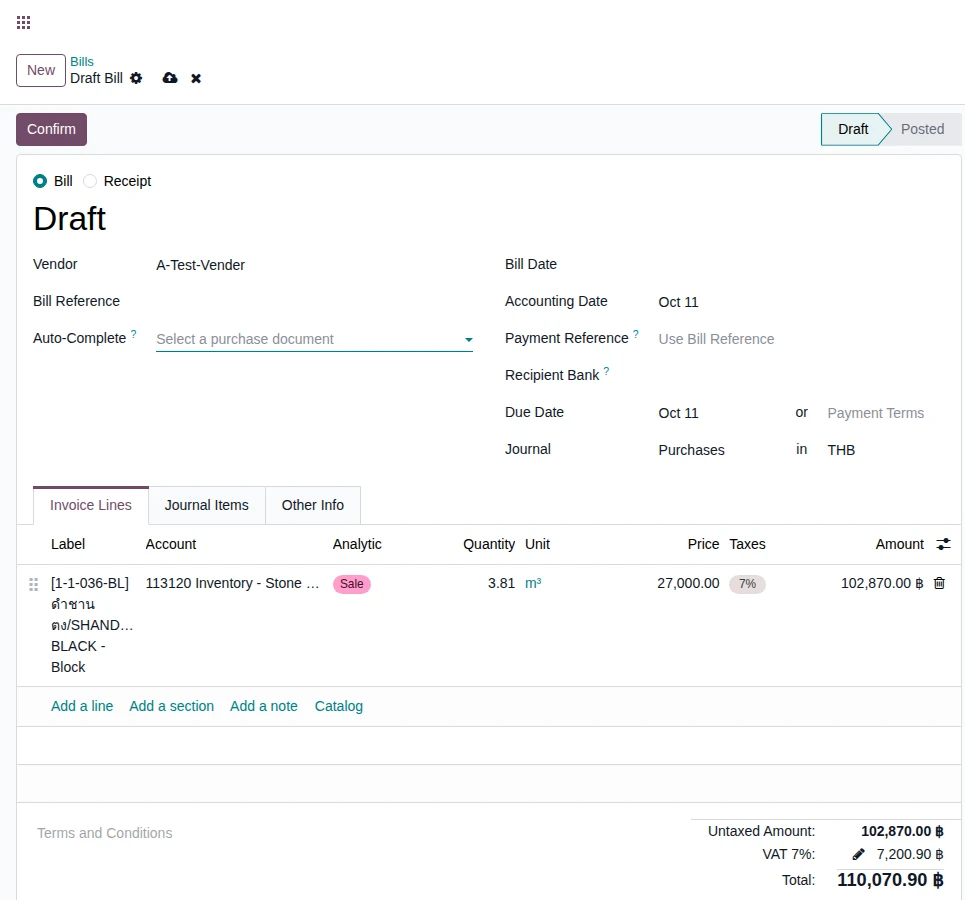
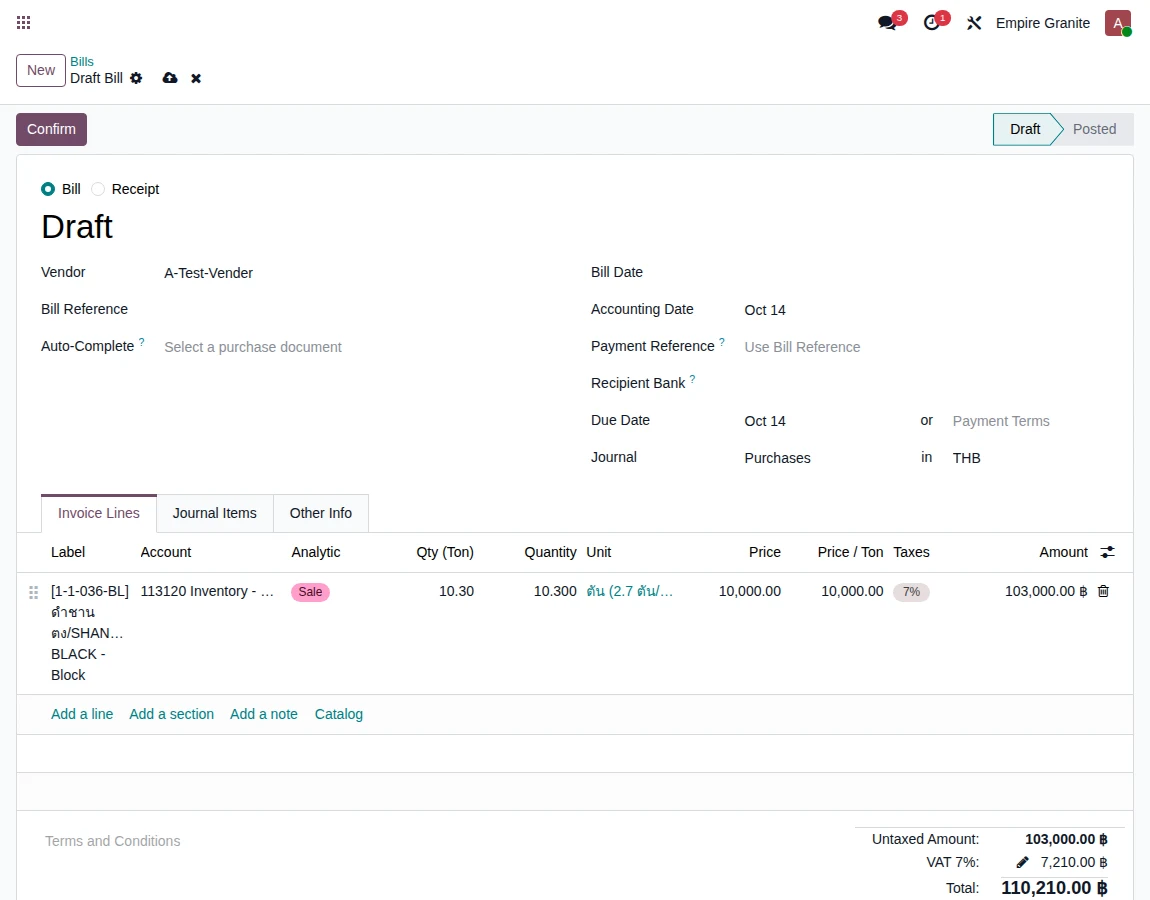
manual 30/31: re-shoot screenshots on eg-tst v109.23 (Block 18, Slab 8), update dataset numbers

diff --git a/manual/31-slab.html b/manual/31-slab.html
@@ -131,12 +131,12 @@ table.cond td.no{background:#fdeeee}
 <h3>4.1 ได้แผ่นจากการตัด Block (Cut Order)</h3>
 <p>ทางที่หนึ่ง: ตัด Block ที่มีอยู่ในคลังให้เป็นแผ่น ไปที่ <strong>Manufacturing → Operations → Manufacturing Orders → New</strong> แล้วเลือก <strong>Stone Block</strong> ที่จะตัด</p>
 <figure class="screenshot"><img src="assets/slab-01-cut-order-block.webp" alt="ใบตัดเลือก Block"/></figure>
-<p>ระบบเติมขนาดแผ่นที่จะตัดให้เอง (กว้าง 3.00 × สูง 1.25 ม. หนา 2 ซม.) และคำนวณจำนวนแผ่นที่คาดว่าจะได้ไว้ที่แท็บ <strong>Slab ที่ตัดได้ (แผน/จริง)</strong> ตัวอย่างนี้ Block 6.00 ลบ.ม. ตัดได้ 80 แผ่นพอดี (แถวละ 1 แผ่น)</p>
+<p>ระบบเติมขนาดแผ่นที่จะตัดให้เอง (กว้าง 3.00 × สูง 1.25 ม. หนา 2 ซม.) และคำนวณจำนวนแผ่นที่คาดว่าจะได้ไว้ที่แท็บ <strong>Slab ที่ตัดได้ (แผน/จริง)</strong> ตัวอย่างนี้ Block 6.00 ลบ.ม. ตัดได้ 80 แผ่นพอดี (แถวละ 1 แผ่น) โดยตั้ง % สูญเสียจากการเลื่อยของ Block เป็น 0 เพื่อให้ตัวเลขกลมเท่ากับชุดตัวอย่างนี้ (ปกติระบบคิดสูญเสีย 15% จำนวนแผ่นจะน้อยลง) ภาพ 3 ภาพแรกของหัวข้อ 4.1 (ก่อนตัดเสร็จ) ถ่ายจาก Block ใหม่ BLK-26-0341 ซึ่งมีขนาดและข้อมูลเหมือน BLK-26-0036 ทุกอย่าง</p>
 <p><strong>ขั้นที่ 1: ย้าย Block ไปสถานีตัด</strong> หลังกด Save แล้วกดปุ่ม <strong>ย้ายไปสถานีตัด</strong></p>
 <figure class="screenshot"><img src="assets/slab-02-move-to-production.webp" alt="ย้าย Block ไปสถานีตัด"/></figure>
 <p>ระบบแจ้งสีเขียวว่า Block ย้ายไป Stone Production แล้ว (ย้ายจาก Stone Available ไปสถานีตัด) แล้วกด Confirm ได้เลย</p>
 <div class="callout callout-note"><div class="callout-head"><span class="callout-tag">หมายเหตุ</span><span class="callout-title">แถบเตือนสีส้ม "ขั้นตอนถัดไป: กดปุ่ม ย้ายไปสถานีตัด" อาจยังค้างอยู่ จนกว่าจะเปิดหน้านี้ใหม่</span></div><div class="callout-body">เป็นแค่ข้อความบนหน้าจอ ไม่กระทบการทำงาน เมื่อพร้อมแล้วระบบจะขึ้นแถบเขียว "พร้อมแล้ว: ตรวจสอบขนาดและจำนวนด้านล่าง แล้วกด Confirm" (ถ้ามีคำเตือนขนาดหรือ variant ขึ้นอยู่ จะไม่แสดงแถบเขียว)</div></div>
-<p><strong>ขั้นที่ 2: เลือกเหตุผลแล้ว Confirm</strong> ใบตัดที่ไม่ผูกกับใบสั่งขาย ต้องเลือกช่อง <strong>เหตุผล (กรณีไม่มี SO)</strong> (ในกลุ่ม "ขั้นตอนที่ 3 — ผูกกับ Sale Order หรือระบุเหตุผล") ก่อนเสมอ ถ้าตัดเข้าสต็อกทั่วไปให้เลือก "อื่นๆ (Other)" แล้ว Save และ Confirm ใบตัดเปลี่ยนเป็น In Progress</p>
+<p><strong>ขั้นที่ 2: เลือกเหตุผลแล้ว Confirm</strong> ใบตัดที่ไม่ผูกกับใบสั่งขาย ต้องเลือกช่อง <strong>เหตุผล (กรณีไม่มี SO)</strong> (ในกลุ่ม "ขั้นตอนที่ 3 — ผูกกับ Sale Order หรือระบุเหตุผล") ก่อนเสมอ ถ้าตัดเข้าสต็อกทั่วไปให้เลือก "อื่นๆ (Other)" แล้ว Save และ Confirm ใบตัดเปลี่ยนเป็น Confirmed</p>
 <figure class="screenshot"><img src="assets/slab-03-confirm-reason.webp" alt="เลือกเหตุผลและ Confirm ใบตัด"/></figure>
 <p><strong>ขั้นที่ 3: ตัดเสร็จ กด ตัดเสร็จ</strong> ถ้าหน้างานตัดได้ขนาดจริงต่างจากแผน ให้แก้คอลัมน์ <strong>จริง L / จริง H / จริง ความหนา</strong> ที่แท็บ Slab ที่ตัดได้ (แผน/จริง) ก่อนกดปุ่ม</p>
 <figure class="screenshot"><img src="assets/slab-04-complete-cut.webp" alt="ใบตัดที่ Done แล้ว ได้ 80 แผ่น"/></figure>
@@ -193,7 +193,7 @@ table.cond td.no{background:#fdeeee}
 <p>ได้บรรทัดสินค้า "Slab (Polished, 2 cm)" ราคา 4,500 บาท/ตร.ม. ตอนนี้ยอดยังเป็นราคาตามขนาดมาตรฐาน (3.00 × 1.60 = 4.80 ตร.ม. → 21,600 บาท) ยอดจริงจะคำนวณใหม่เมื่อเลือกแผ่นในขั้นถัดไป</p>
 <p><strong>เลือกแผ่นที่จะขาย:</strong> ที่ท้ายบรรทัดสินค้า กดปุ่มไอคอนรายการ <strong>เลือก Slab / Select Slabs</strong> ในหน้าต่างกด <strong>Add a line</strong> แล้วเลือก Slab ทีละแผ่น (พิมพ์ชื่อแล้วเลือก) ทำซ้ำจนครบ แล้วกด <strong>ยืนยันการเลือก</strong></p>
 <figure class="screenshot"><img src="assets/slab-10-select-slabs.webp" alt="หน้าต่างเลือก Slab / Lot"/></figure>
-<p>หน้าต่างแสดงขนาด จำนวนที่ว่าง และ ตร.ม. ของแต่ละแผ่น ตัวอย่างเลือก 4 แผ่น (<code>BLK-26-0036-1</code> ถึง <code>-4</code>) พื้นที่รวม 15.00 ตร.ม. พอยืนยัน บรรทัดสินค้าเปลี่ยนเป็น <strong>"4 แผ่น = 15.00 ตร.ม. · 4,500 ฿/ตร.ม."</strong> ยอดก่อน VAT 67,500 บาท, VAT 4,725, รวม 72,225</p>
+<p>หน้าต่างแสดงขนาด จำนวนที่ว่าง และ ตร.ม. ของแต่ละแผ่น ตัวอย่างเลือก 4 แผ่น (ในภาพคือ <code>BLK-26-0036-11</code> ถึง <code>-14</code>) พื้นที่รวม 15.00 ตร.ม. พอยืนยัน บรรทัดสินค้าเปลี่ยนเป็น <strong>"4 แผ่น = 15.00 ตร.ม. · 4,500 ฿/ตร.ม."</strong> ยอดก่อน VAT 67,500 บาท, VAT 4,725, รวม 72,225</p>
 <p><strong>กด Confirm ใบสั่งขาย:</strong> สถานะเป็น Sales Order มีสมาร์ทปุ่ม Delivery 1 ใบ และ Slabs 4 แผ่น</p>
 <figure class="screenshot"><img src="assets/slab-11-so-confirmed.webp" alt="ใบสั่งขาย Confirm แล้ว"/></figure>
 <div class="callout callout-warning"><div class="callout-head"><span class="callout-tag">ระวัง</span><span class="callout-title">แถบสีแดง "ขนาดแผ่นจริงต่างจากที่เสนอลูกค้า" คือคำเตือน ไม่ใช่ข้อผิดพลาด</span></div><div class="callout-body">ใบเสนอราคาใช้ขนาดมาตรฐาน 3.00 × 1.60 (4.80 ตร.ม./แผ่น) แต่แผ่นจริงที่เลือกคือ 3.75 ตร.ม./แผ่น ระบบ <strong>ล็อกยอดไว้ที่ 67,500</strong> และเตือนเซลล์ให้แจ้งลูกค้า เป็นพฤติกรรมตามออกแบบ (ADR-079, 085) ไม่ห้ามการ Confirm</div></div>
@@ -284,7 +284,7 @@ table.cond td.no{background:#fdeeee}
 <li>การขายข้ามบริษัท (EG↔ES) และการซื้อ Slab สำเร็จรูปแล้วออกใบแจ้งหนี้ผู้ขาย ยังไม่ได้เดินจริงหลังรอบ Slab = Lot (ดูบทที่ 08)</li>
 <li>เศษหินที่เหลือจากใบตัดยังไม่ถูกบันทึกกลับเข้าสต็อกเป็นแผ่น/เศษ</li>
 </ul>
-<div class="media-note">อ้างอิงทางเทคนิค: decisions.md ADR-087 (Slab = Lot/Serial), ADR-079/085 (ล็อกยอดและเตือนขนาดต่าง), ADR-084 (รับผ่านใบรับของ) — claude-knowledge vault · ทดลองบน eg-tst เมื่อ 2026-10-05 (ชุดตัวอย่าง TC-GP-SLB-01 ถึง 18)</div>
+<div class="media-note">อ้างอิงทางเทคนิค: decisions.md ADR-087 (Slab = Lot/Serial), ADR-079/085 (ล็อกยอดและเตือนขนาดต่าง), ADR-084 (รับผ่านใบรับของ) — claude-knowledge vault · ทดลองบน eg-tst เมื่อ 2026-10-05 (ชุดตัวอย่าง TC-GP-SLB-01 ถึง 18) · ภาพใบตัด (4.1) และใบสั่งขาย/เลือก Slab (4.6) ถ่ายใหม่เมื่อ 14 ตุลาคม 2569 บน v19.0.2.109.23 ส่วนภาพอื่น (รับของ Slab สำเร็จรูป, ส่งของ, ใบแจ้งหนี้, คืนของ) ยังเป็นของ 11 ตุลาคม 2569 เพราะหน้าจอส่วนนั้นไม่ได้เปลี่ยน</div>
 <hr/>
   </div>
 </div>

diff --git a/manual/30-block.html b/manual/30-block.html
@@ -139,11 +139,11 @@ table.cond td.no{background:#fdeeee}
 <li>กดคำว่า <strong>Details</strong> ที่แถวสินค้า จะเปิดหน้าต่าง <strong>Detailed Operations</strong></li>
 <li><strong>1 แถว = 1 ก้อนจริง</strong> กรอก ยาว / กว้าง / สูง (เมตร) ของก้อนนั้น</li>
 <li>ถ้ามีหลายก้อน กด <strong>Add a line</strong> เพิ่มแถวทีละก้อน</li>
-<li>ช่อง Quantity ระบบคำนวณให้เอง (ล็อก พิมพ์ทับไม่ได้) และช่อง <strong>Qty (Ton)</strong> แสดงตันของแต่ละก้อน</li>
+<li>ช่อง Quantity ระบบคำนวณให้เอง (ล็อก พิมพ์ทับไม่ได้) และช่อง <strong>Qty (Ton)</strong> แสดงตันที่คำนวณจากขนาดของแต่ละก้อน ส่วนช่อง <strong>ตันตามใบส่งของ</strong> ใช้กรอกน้ำหนักที่ชั่งจริงตามใบส่งของ (เว้นว่างได้) ตัวอย่างนี้กรอก 5.200 และ 5.100 ตัน</li>
 </ol>
 <figure class="screenshot"><img src="assets/block-modal-empty.webp" alt="หน้าต่าง Detailed Operations ก่อนกรอกขนาด"/></figure>
 <figure class="screenshot"><img src="assets/block-dims-two.webp" alt="กรอกขนาด 2 ก้อน"/></figure>
-<p>ตัวอย่าง: ก้อนที่ 1 ขนาด 3.00 × 0.40 × 1.60 ม. = 1.92 ลบ.ม. (5.18 ตัน) ก้อนที่ 2 ขนาด 2.80 × 0.45 × 1.50 ม. = 1.89 ลบ.ม. (5.10 ตัน) รวม 3.81 ลบ.ม.</p>
+<p>ตัวอย่าง: ก้อนที่ 1 ขนาด 3.00 × 0.40 × 1.60 ม. = 1.92 ลบ.ม. (คำนวณ 5.18 ตัน, ใบส่งของ 5.200 ตัน) ก้อนที่ 2 ขนาด 2.80 × 0.45 × 1.50 ม. = 1.89 ลบ.ม. (คำนวณ 5.10 ตัน, ใบส่งของ 5.100 ตัน) รวม 3.81 ลบ.ม. / 10.300 ตัน</p>
 <div class="callout callout-warning"><div class="callout-head"><span class="callout-tag">ระวัง</span><span class="callout-title">ถ้ายังไม่กรอกขนาดแล้วกด Validate ระบบจะไม่ให้ผ่าน</span></div><div class="callout-body">ระบบแจ้งให้กรอก ยาว × กว้าง × สูง ของทุกก้อนก่อน นี่คือการป้องกันไม่ให้มี Block ที่ไม่รู้ขนาดเข้าคลัง<figure class="screenshot"><img src="assets/block-err-nodims.webp" alt="ข้อความเตือนเมื่อไม่กรอกขนาด"/></figure></div></div>
 
 <p>เมื่อกรอกครบแล้วกด <strong>Validate</strong> ถ้าปริมาตรที่รับจริงน้อยกว่าที่สั่ง (ตัวอย่างนี้สั่ง 4.00 รับ 3.81) Odoo จะถามเรื่อง Backorder:</p>
@@ -175,7 +175,7 @@ table.cond td.no{background:#fdeeee}
 <figure class="screenshot"><img src="assets/block-po-received.webp" alt="ใบสั่งซื้อหลังรับของ"/></figure>
 <p>สร้างบิลที่ <strong>Accounting → Vendors → Bills → New</strong> เลือกผู้ขาย แล้วที่ช่อง <strong>Auto-Complete</strong> เลือกใบสั่งซื้อ ระบบดึงรายการมาให้ <strong>ตามที่รับจริง</strong> และ<strong>เขียนเป็นตัน</strong> ในราคาบาท/ตันตามใบสั่งซื้อ (หน่วยในบิลเป็น "ตัน")</p>
 <figure class="screenshot"><img src="assets/block-bill.webp" alt="ใบแจ้งหนี้ผู้ขายดึงจำนวนตามที่รับจริง"/></figure>
-<p>ตัวอย่าง: รับตามใบส่งของ 3.704 ตัน × 27,000 บาท/ตัน = 100,008 บาท ตรงกับใบแจ้งหนี้ของผู้ขาย (ไม่ใช่ 4.00 ที่สั่ง)</p>
+<p>ตัวอย่าง: รับตามใบส่งของ 5.200 + 5.100 = 10.300 ตัน × 10,000 บาท/ตัน = 103,000 บาท ตรงกับใบแจ้งหนี้ของผู้ขาย (ไม่ใช่ 4.00 ลบ.ม. ที่สั่ง ซึ่งจะเป็น 108,000 บาท) ในบิล ช่อง Quantity เป็นตัน (10.300) และ Price เป็นบาทต่อตัน (10,000)</p>
 <div class="callout callout-success"><div class="callout-head"><span class="callout-tag">ปรับปรุง 14 ต.ค. 2569</span><span class="callout-title">ราคาที่ซื้อมา = ราคาในบิล ไม่คลาดเพราะปัดเศษ ลบ.ม.</span></div><div class="callout-body">เดิมบิลถูกแปลงเป็น ลบ.ม. (ปัด 2 ตำแหน่ง) ทำให้ยอดบิลคลาดจากใบส่งของเล็กน้อย เช่น 100,000 กลายเป็น 99,9xx ตอนนี้บิลและใบลดหนี้ (Credit Note) เขียนเป็นตัน (ทศนิยม 3 ตำแหน่ง) ยอดจึงเท่ากับตันที่รับ × ราคาต่อตันเสมอ ใช้ได้เมื่อ Block มี "ตันตามใบส่งของ" ที่กรอกตอนรับของ (ถ้าไม่มี ระบบยังออกบิลเป็น ลบ.ม. แบบเดิม) ช่องจำนวนทุกบรรทัดในบิล/ใบแจ้งหนี้แสดงทศนิยม 3 ตำแหน่ง</div></div>
 <div class="callout callout-info"><div class="callout-head"><span class="callout-tag">ข้อมูล</span><span class="callout-title">ต้นทุน Block คิดแยกตามก้อน</span></div><div class="callout-body">Block ทุกก้อนมี Lot ของตัวเอง และมูลค่าถูกเก็บตาม Lot ต้นทุนของแต่ละก้อนจึงมาจากราคาที่ซื้อก้อนนั้นจริง ไม่ปนกับก้อนที่ซื้อคนละราคา (เดิม Odoo ใช้วิธีเข้าก่อนออกก่อน (FIFO) ต่อสินค้า ทำให้ตัด ขาย หรือคืน Block ราคา 27,000 ไปหยิบต้นทุนของ Block เก่าราคา 16,200)</div></div>
 
@@ -265,7 +265,7 @@ table.cond td.no{background:#fdeeee}
 <li>สิทธิ์ผู้ใช้ระดับต่ำ ยังไม่ได้ลองล็อกอินยืนยันบนหน้าจอ</li>
 <li>บิลของใบสั่งซื้อที่เปิดก่อน 4 ตุลาคม 2569 อาจยังตั้งค่าเป็น "ตามที่สั่ง" ให้ตรวจก่อน Confirm</li>
 </ul>
-<div class="media-note">อ้างอิงทางเทคนิค: decisions.md ADR-084 (Block รับผ่านใบรับของ), ADR-071 (ขนาดและปริมาตร) — claude-knowledge vault · ทดลองบน eg-tst และ mbx-ee-dev เมื่อ 2026-10-04 · ภาพหน้าจอและหัวข้อ 4.1–4.7 ตรวจซ้ำบน eg-tst (v19.0.2.109.6) เมื่อ 2026-10-11 · หัวข้อ 4.4, 4.6, 4.7 และตารางต้นทุนปรับตาม v19.0.2.109.20–.23 เมื่อ 2026-10-14 (ยังไม่ได้ถ่ายภาพหน้าจอใหม่ของบิลเป็นตัน)</div>
+<div class="media-note">อ้างอิงทางเทคนิค: decisions.md ADR-084 (Block รับผ่านใบรับของ), ADR-071 (ขนาดและปริมาตร) — claude-knowledge vault · ทดลองบน eg-tst และ mbx-ee-dev เมื่อ 2026-10-04 · ภาพหน้าจอและหัวข้อ 4.1–4.7 ตรวจซ้ำบน eg-tst (v19.0.2.109.6) เมื่อ 2026-10-11 · หัวข้อ 4.4, 4.6, 4.7 และตารางต้นทุนปรับตาม v19.0.2.109.20–.23 เมื่อ 2026-10-14 · ภาพหน้าจอหัวข้อ 4.1–4.7 ถ่ายใหม่ทั้งหมดบน eg-tst (v19.0.2.109.23) เมื่อ 14 ตุลาคม 2569 ด้วยข้อมูลชุดเดียวกัน (PO 4.00 ลบ.ม. รับ 2 ก้อน ตันตามใบส่งของ 5.200 + 5.100 ตัน บิล 10.300 ตัน)</div>
 <hr/>
   </div>
 </div>
